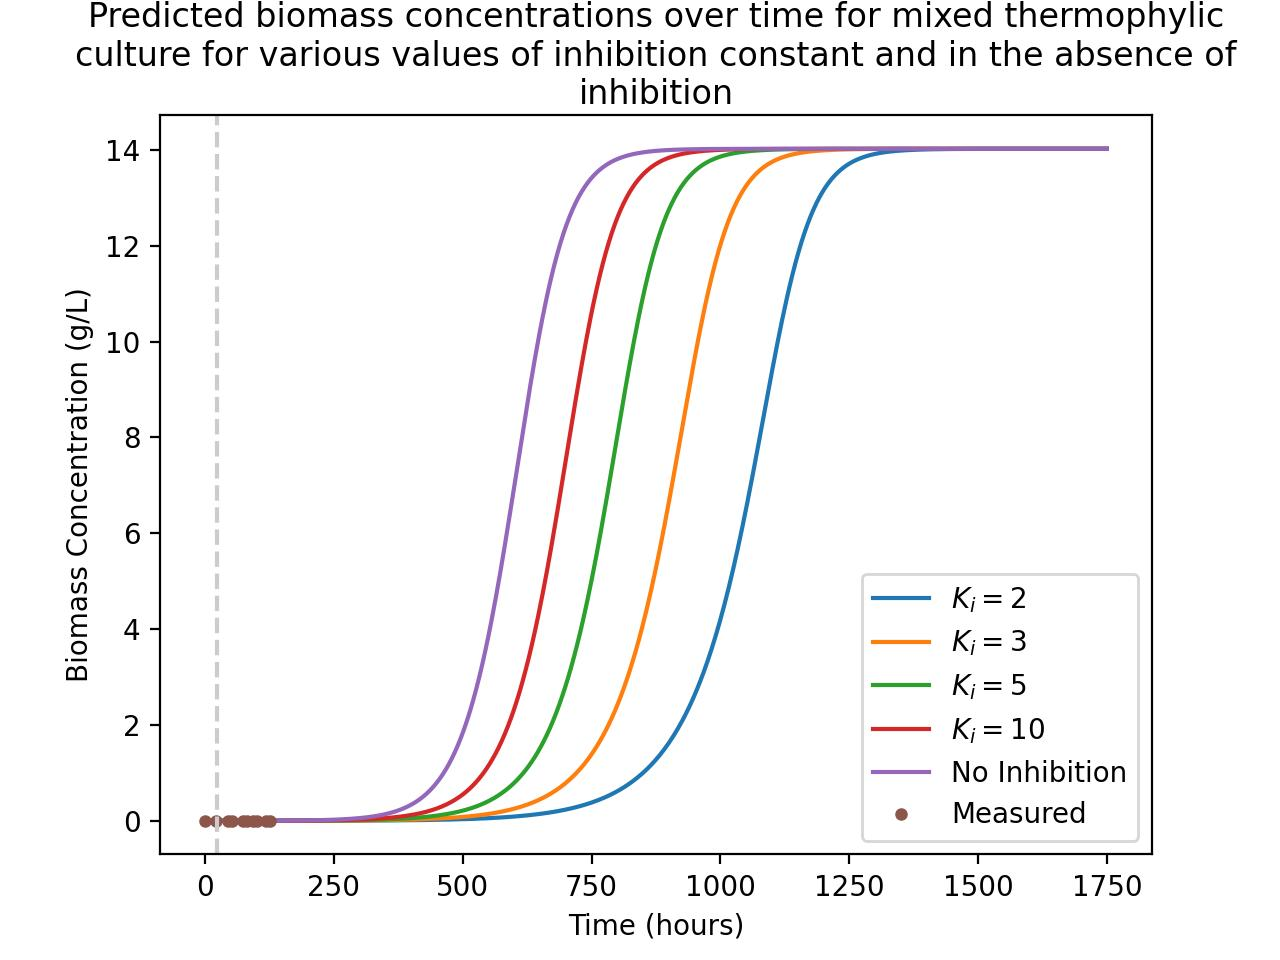
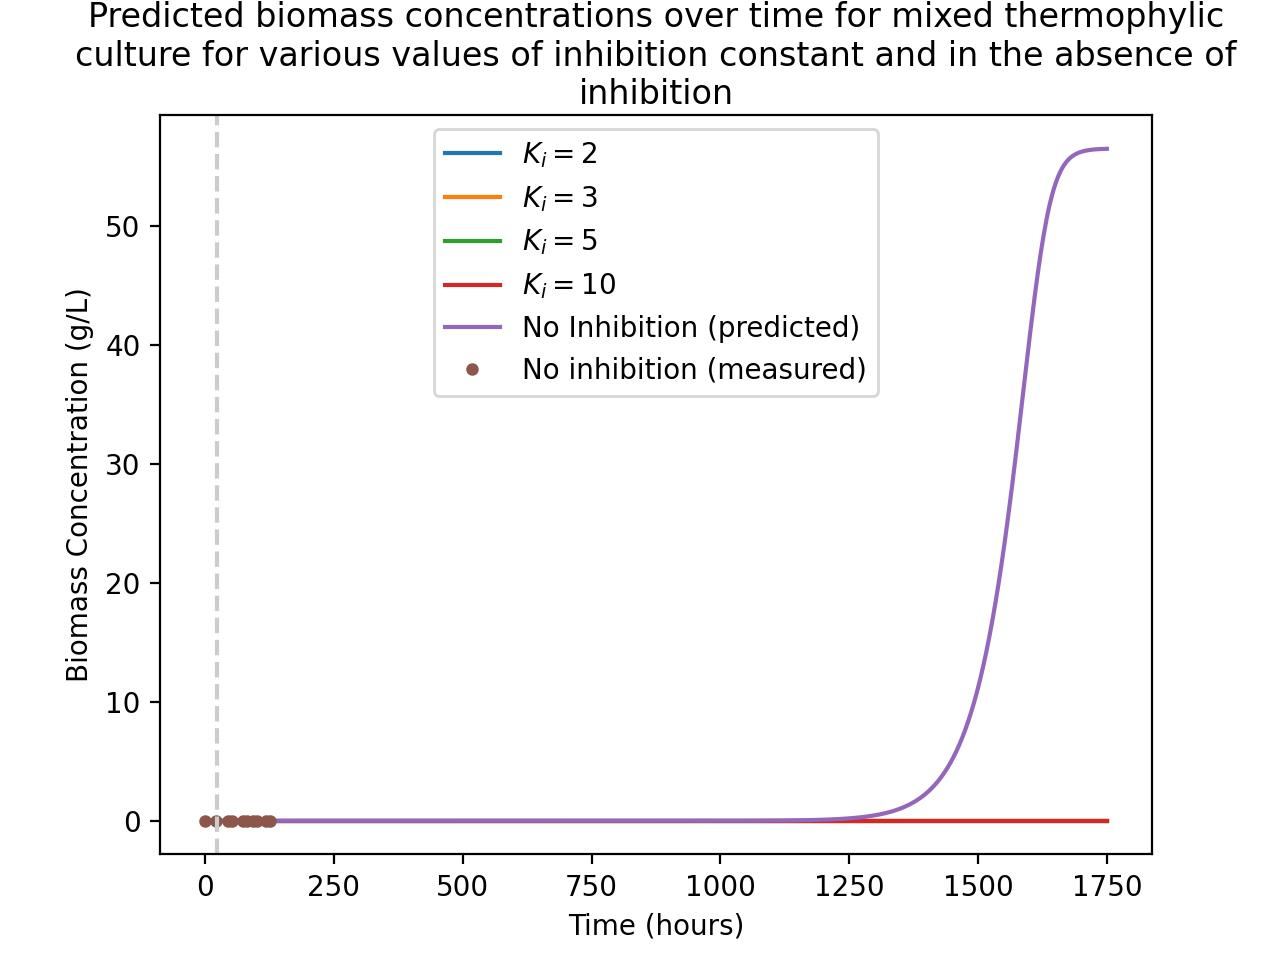
Add zero inhibition curves to model 6

diff --git a/6_mixed_thermophylic.py b/6_mixed_thermophylic.py
@@ -35,7 +35,7 @@ print('\nRaw extracted states')
 print(state_names, '\n', states_m)
 
 # Convert biomass concentration (10^8 cells/ml) to (g/L)
-states_m = (states_m / (1e9)) * 1e8 / 1e3 # (grams/cell) * (order of cells) / (ml/L)
+states_m = (states_m / (1e15)) * 1e8 / 1e3 # (grams/cell) * (order of cells) / (ml/L)
 state_names = 'Biomass Concentration (cells/L)'
 print('\nProcessed measured states')
 print(state_names, '\n', states_m)
@@ -47,7 +47,7 @@ print(header[0], times_m)
 
 # Set initial states
 print('\nInitial measured states')
-initial_states = [states_m[0], 10, 0] # 20g/L substrate in Luria broth + 5 g glycine
+initial_states = [states_m[0], 25, 0] # 20g/L substrate in Luria broth + 5 g glycine
 print(initial_states)
 
 
@@ -71,19 +71,20 @@ def monod(f,t, umax, Ks, Yps, Yxs):
 
 
 # Set model params
-umax = 0.18 #/h
+umax = 0.01 #/h
 Ks = 18.35 #g/L
 Yxs = 2
 Yps = 0.5445
 
 params = Parameters()
-params.add('umax', value= umax, min=0.1, vary=True)
+params.add('umax', value= umax, min=0, vary=True)
 params.add('Ks', value= Ks, min=0, vary=True)
 params.add('Yxs', value= Yxs, min=0, vary=True)
 params.add('Yps', value= Yxs, min=0, vary=True)
 
 
 # Define regression
+norm_states_m = np.linalg.norm(states_m)
 def regress( params ):
 
     # Unpack params
@@ -94,13 +95,13 @@ def regress( params ):
 
     # Model prediction
     c = odeint(monod, initial_states, times_m, args=(umax, Ks, Yps, Yxs))
-    cX = c[:, 0]
+    cX = np.linalg.norm(c[:, 0])
     # cS = c[:, 1]
-    cP = c[:, 2]
+    # cP = c[:, 2]
     del c
 
     # Compute error
-    I = (states_m - cX)**2
+    I = (norm_states_m - cX)**2
 
     return I
 
@@ -140,6 +141,29 @@ plot_inhibition_curves(
     times_p,
     initial_states,
     Kis,
+    args,
+    haldane_with_products,
+    mic_name,
+    cX_no_inhib=cX_no_inhib,
+    cS_no_inhib=cS_no_inhib,
+    cP_no_inhib=cP_no_inhib,
+    xvline=xvline,
+    show_fig=show_fig,
+    cX_measured=states_m,
+    # cS_measured=[:,1],
+    measurement_times=times_m,
+    # cells=True,
+    # scale_cX=None#1e8
+    # cX_label_y='Biomass Concentration ($10^{8}$ cells/L)'
+)
+
+
+# Plot zero inhib curves
+times_p = sorted( np.concatenate( ([xvline], np.linspace(1e-5, 80, 600)) ) )
+plot_inhibition_curves(
+    times_p,
+    initial_states,
+    [],
     args,
     haldane_with_products,
     mic_name,
